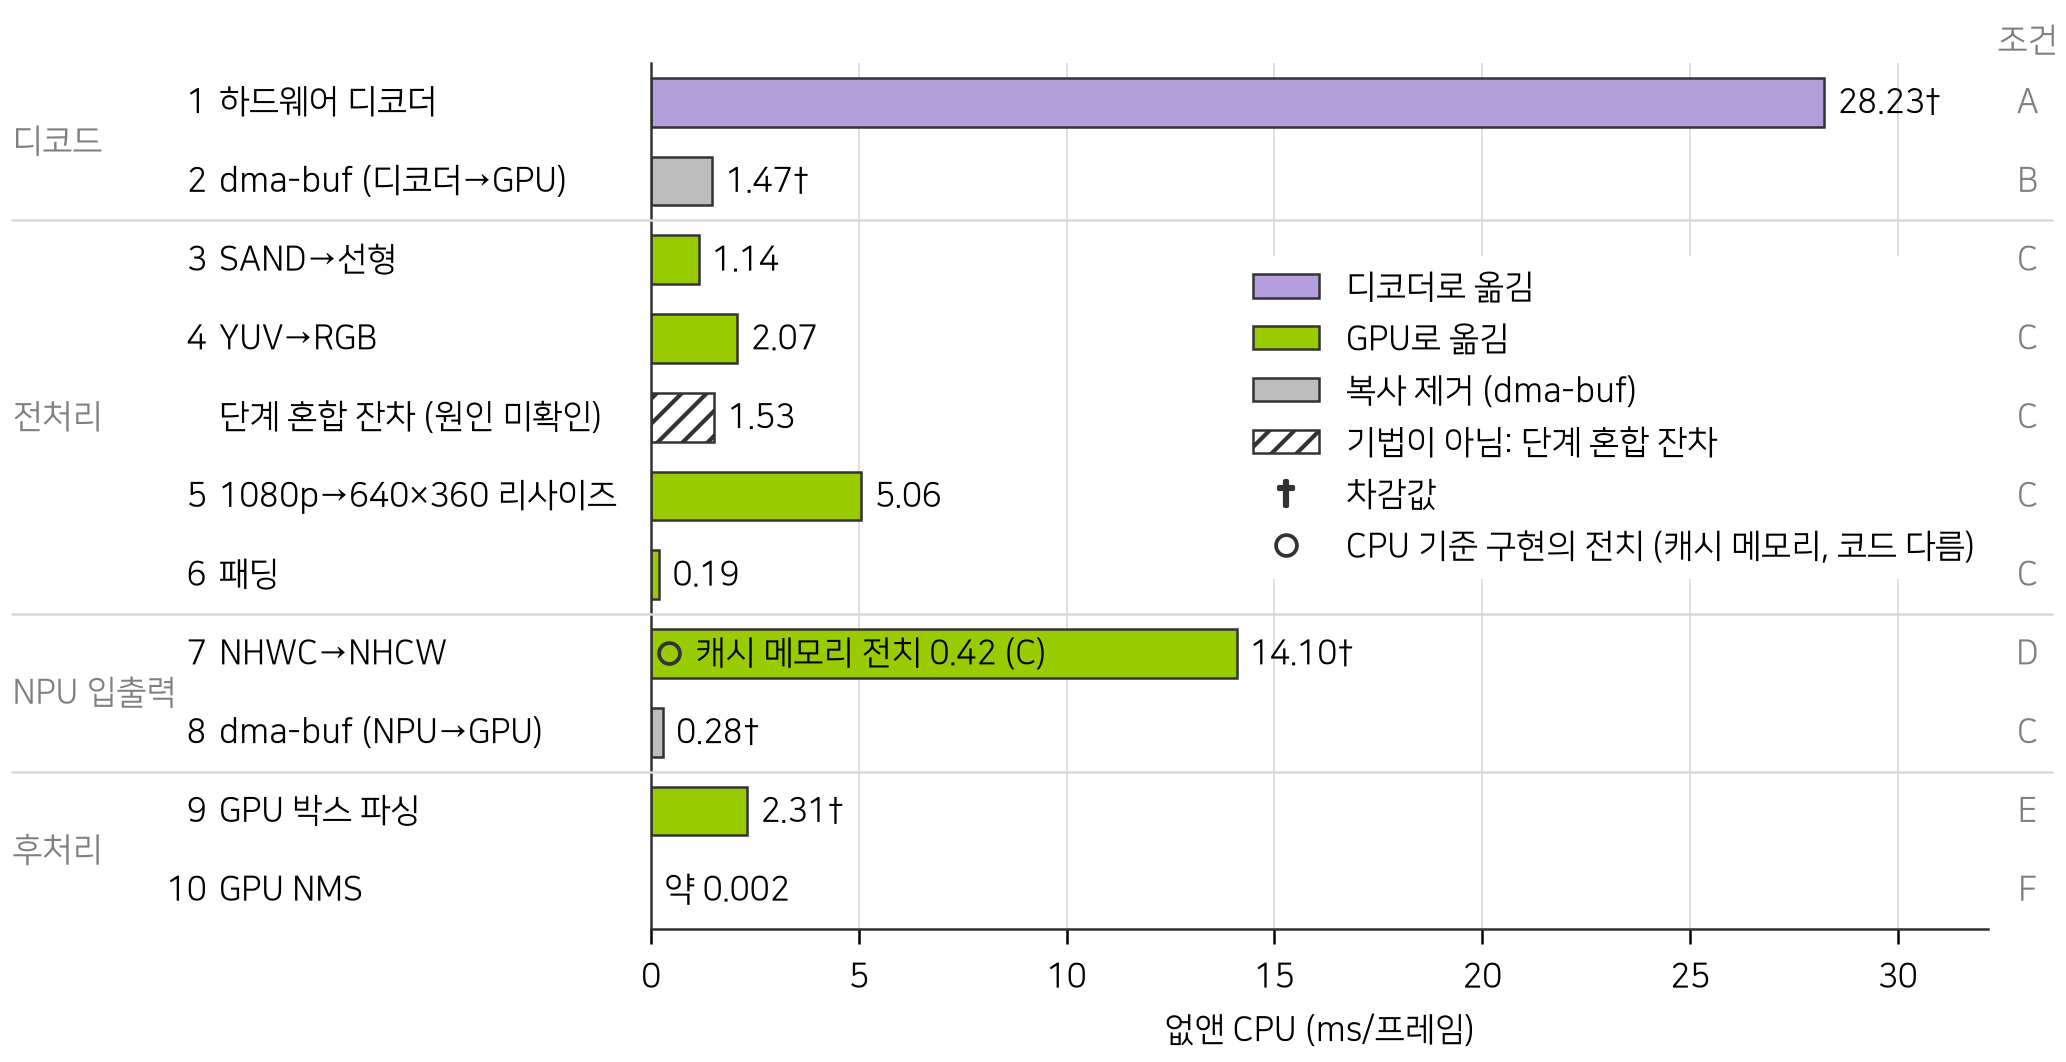
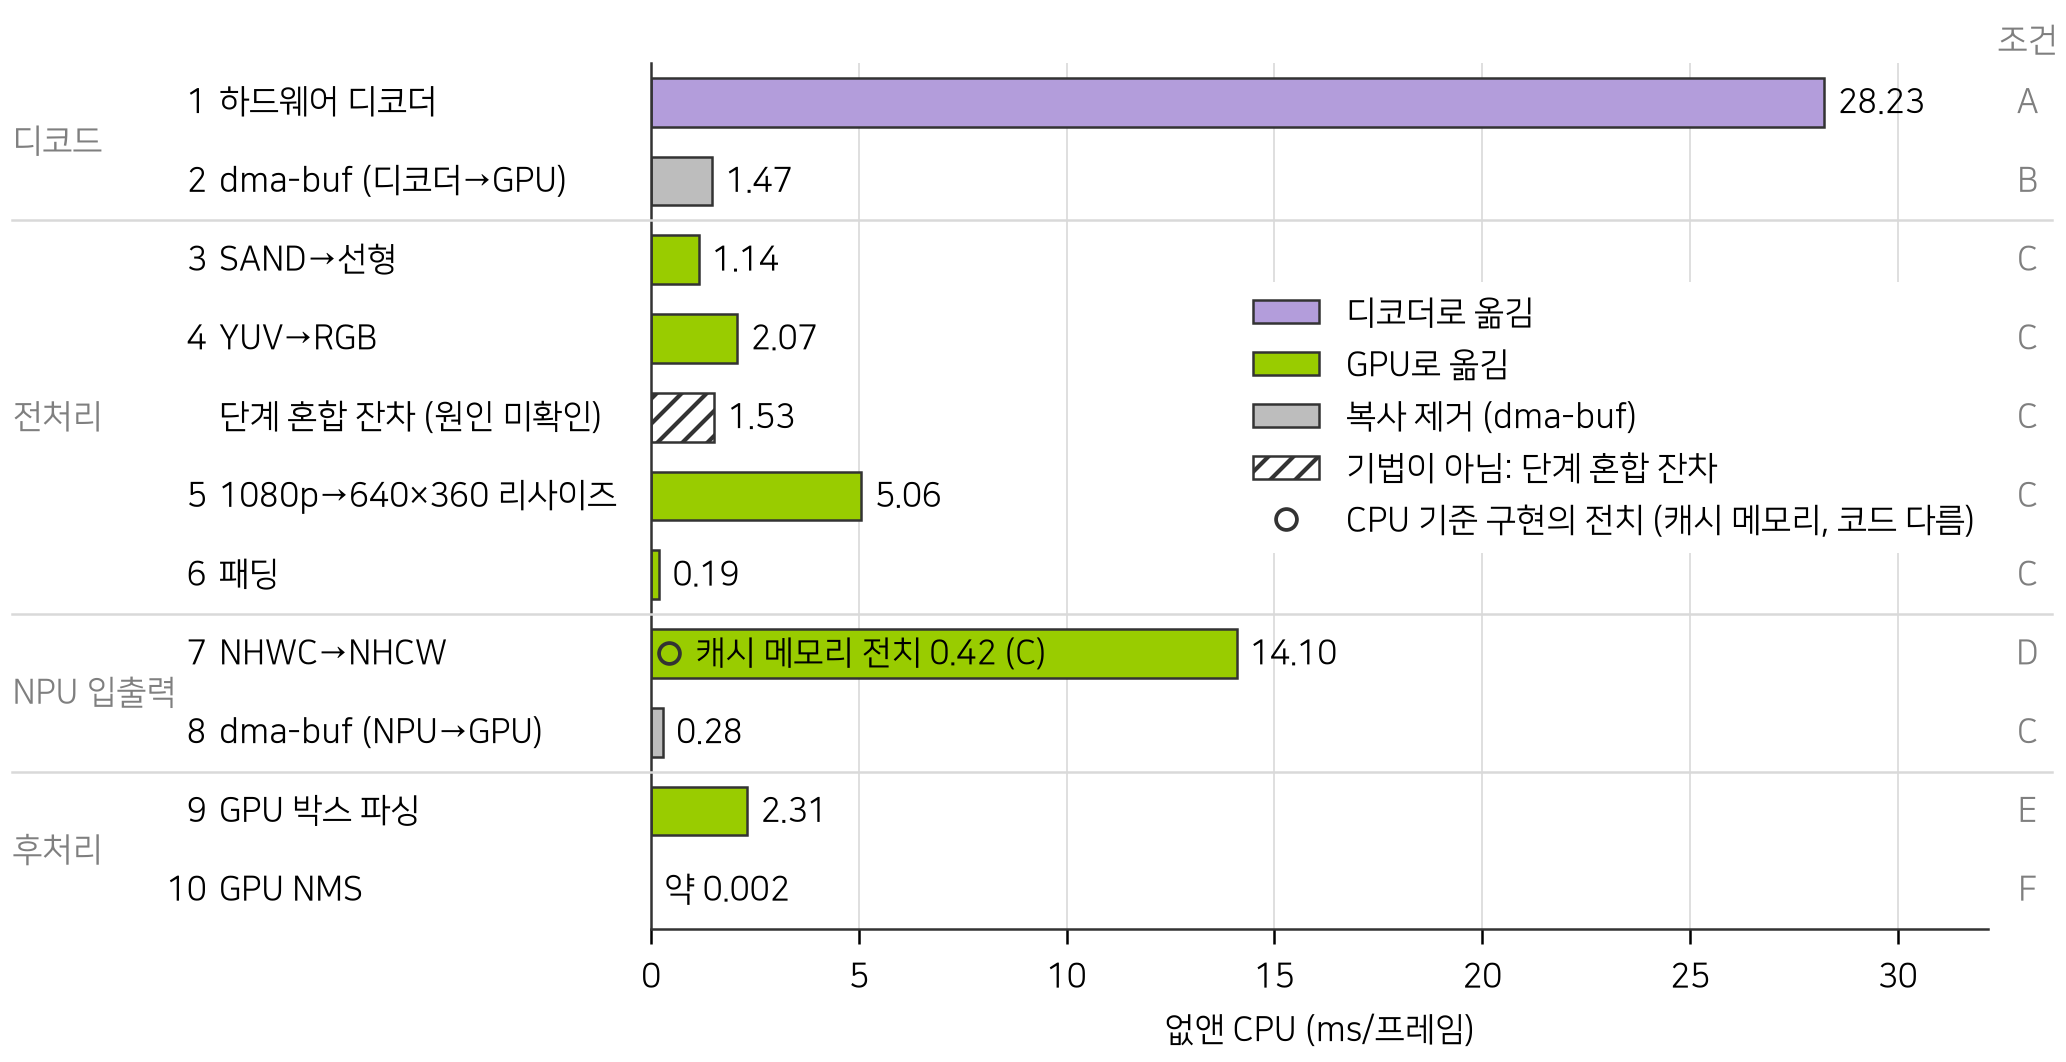
paper(그림 12): 값 라벨의 † 표시 제거, 차감값 행은 캡션에 번호로 명시
Claude-Session: https://claude.ai/code/session_01HrRftuyxzwud5AoujnGMPw

Changed region(s): [[0.5886, 0.2486, 0.9603, 0.5282]]

diff --git a/06_tools/python/paper/fig12_cpu_saving_by_technique.py b/06_tools/python/paper/fig12_cpu_saving_by_technique.py
@@ -1,7 +1,7 @@
 """Figure 12: CPU removed per frame by each offload technique, in pipeline order. One linear horizontal bar panel.
 
 The values come from different experiments and conditions (letters A-F), so they must not be added; no total is drawn.
-Sources (under 07_results), all medians of 3 runs. "Derived" values (dagger) are differences of medians:
+Sources (under 07_results), all medians of 3 runs. Rows 1, 2, 7, 8 and 9 are differences of medians (stated in the caption):
   1  decode_benchmark/runs/pipeline_sw_hw (A): sw_auto app CPU - sw_copy_ms - hw_t1 app CPU, app CPU = sum of the
      "thread cpu" ms/arrived lines of raw/<setting>_run<N>/stdout.log (same reader as figure 11).
   2  decode_benchmark/runs/ffmpeg_outfmt (B): user+sys per frame of the median-fps run (summary.md's definition) of drm_S1
@@ -57,7 +57,6 @@ class Row:
     value: float
     color: str
     condition: str
-    derived: bool = False
     hatch: str | None = None
 
 
@@ -182,24 +181,23 @@ def build_rows(decoder: dict[str, float], ffmpeg: dict[str, float], stages: dict
     """Rows from top to bottom in pipeline order."""
     gpu, moved = ps.DEVICE_COLORS["gpu"], ps.DEVICE_COLORS["decoder"]
     return [
-        Row("디코드", "1", "하드웨어 디코더", decoder["saving"], moved, "A", derived=True),
-        Row("디코드", "2", "dma-buf (디코더→GPU)", ffmpeg["saving"], COPY_COLOR, "B", derived=True),
+        Row("디코드", "1", "하드웨어 디코더", decoder["saving"], moved, "A"),
+        Row("디코드", "2", "dma-buf (디코더→GPU)", ffmpeg["saving"], COPY_COLOR, "B"),
         Row("전처리", "3", "SAND→선형", stages["flatten"], gpu, "C"),
         Row("전처리", "4", "YUV→RGB", stages["color"], gpu, "C"),
         Row("전처리", "", "단계 혼합 잔차 (원인 미확인)", stages["residual"], "white", "C", hatch="////"),
         Row("전처리", "5", "1080p→640×360 리사이즈", stages["resize"], gpu, "C"),
         Row("전처리", "6", "패딩", stages["pad"], gpu, "C"),
-        Row("NPU 입출력", "7", "NHWC→NHCW", layout["saving"], gpu, "D", derived=True),
-        Row("NPU 입출력", "8", "dma-buf (NPU→GPU)", stages["copy_saving"], COPY_COLOR, "C", derived=True),
-        Row("후처리", "9", "GPU 박스 파싱", post["parsing"], gpu, "E", derived=True),
+        Row("NPU 입출력", "7", "NHWC→NHCW", layout["saving"], gpu, "D"),
+        Row("NPU 입출력", "8", "dma-buf (NPU→GPU)", stages["copy_saving"], COPY_COLOR, "C"),
+        Row("후처리", "9", "GPU 박스 파싱", post["parsing"], gpu, "E"),
         Row("후처리", "10", "GPU NMS", post["nms"], gpu, "F"),
     ]
 
 
 def _value_label(row: Row) -> str:
     # Below the 2-decimal resolution the label keeps one significant digit instead of printing 0.00.
-    text = f"약 {ps.fmt_half_up(row.value, 3)}" if row.value < 0.005 else ps.fmt_half_up(row.value, 2)
-    return text + ("†" if row.derived else "")
+    return f"약 {ps.fmt_half_up(row.value, 3)}" if row.value < 0.005 else ps.fmt_half_up(row.value, 2)
 
 
 def _draw_sections(fig, ax, rows: list[Row], to_fig_data) -> None:
@@ -220,7 +218,6 @@ def _legend(ax) -> None:
         Patch(fc=ps.DEVICE_COLORS["gpu"], ec=ps.EDGE_COLOR, lw=0.6, label="GPU로 옮김"),
         Patch(fc=COPY_COLOR, ec=ps.EDGE_COLOR, lw=0.6, label="복사 제거 (dma-buf)"),
         Patch(fc="white", ec=ps.EDGE_COLOR, lw=0.6, hatch="////", label="기법이 아님: 단계 혼합 잔차"),
-        Line2D([], [], ls="none", marker=r"$\dagger$", ms=6, color=ps.EDGE_COLOR, label="차감값"),
         Line2D([], [], ls="none", marker="o", ms=5, mfc="none", mec=ps.EDGE_COLOR, mew=0.9,
                label="CPU 기준 구현의 전치 (캐시 메모리, 코드 다름)"),
     ]

diff --git a/10_paper/paper_ko.md b/10_paper/paper_ko.md
@@ -1515,7 +1515,7 @@ dma-buf 전달 자체의 몫(1.47 ms, 0.28 ms)과 억제(약 0.002 ms)는 작다
 
 ![그림 12. 기법별로 없앤 CPU](figures/fig12_cpu_saving_by_technique.svg)
 
-**그림 12.** 기법별로 없앤 CPU(ms/프레임). 행은 파이프라인 순서이고, 색은 일이 옮겨 간 곳(디코더, GPU) 또는 복사 제거(dma-buf)를 나타낸다. **각 값은 서로 다른 실험과 조건에서 쟀으므로 더할 수 없다.** †는 측정값끼리 뺀 차감값이다.
+**그림 12.** 기법별로 없앤 CPU(ms/프레임). 행은 파이프라인 순서이고, 색은 일이 옮겨 간 곳(디코더, GPU) 또는 복사 제거(dma-buf)를 나타낸다. **각 값은 서로 다른 실험과 조건에서 쟀으므로 더할 수 없다.** 1, 2, 7, 8, 9번은 측정값끼리 뺀 차감값이다.
 1번은 소프트웨어 자동 스레드의 응용 CPU에서 복사와 하드웨어 경로의 응용 CPU를 뺀 값이다. 2번의 CPU 내려받기는 SAND→평면 복사를 포함해 3번과 겹친다. 빗금 행은 기법이 아니라 CPU 기준 구현을 한 루프로 돌릴 때와 단계별로 나눠 돌릴 때의 차이이며, 원인은 확인하지 못했다.
 7번은 dma-buf 입력에서 레이아웃만 바꾼 차이이고, 빈 원은 CPU 기준 구현이 캐시 메모리에서 수행한 전치(0.42 ms, 조건 C)로 7번과 코드가 다르다. 8번은 NPU 없이 소스 힙 버퍼를 GPU에 가져온 합성 측정이고, 파이프라인에는 이 복사 경로가 없다.
 9번은 호스트 후처리와 GPU 후처리의 응용 CPU 차이에서 10번만 뺀 값이다. 10번은 CPU 억제 시간 자체이며, 응용 CPU에서는 줄어든 것이 관측되지 않았다(0.896 대 0.908 ms, 범위 겹침).
